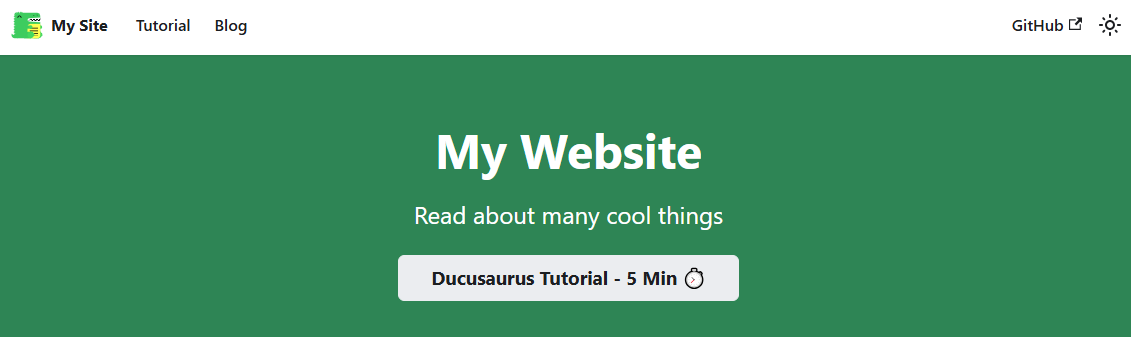
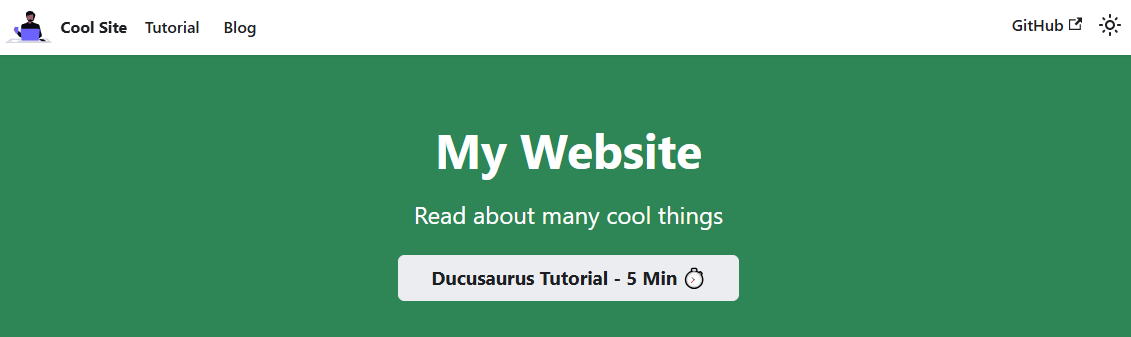
Finished the Site Configuration description

Changed region(s): [[0.0, 0.0297, 0.2476, 0.1484]]

diff --git a/src/css/custom.css b/src/css/custom.css
@@ -6,23 +6,22 @@
 
 /* You can override the default Infima variables here. */
 :root {
-  --ifm-color-primary: #2e8555;
-  --ifm-color-primary-dark: #29784c;
-  --ifm-color-primary-darker: #277148;
-  --ifm-color-primary-darkest: #205d3b;
-  --ifm-color-primary-light: #33925d;
-  --ifm-color-primary-lighter: #359962;
-  --ifm-color-primary-lightest: #3cad6e;
+  --ifm-color-primary: #4169e1;
+  --ifm-color-primary-dark: #2855dd;
+  --ifm-color-primary-darker: #224ed5;
+  --ifm-color-primary-darkest: #1c41af;
+  --ifm-color-primary-light: #5a7de5;
+  --ifm-color-primary-lighter: #6787e7;
+  --ifm-color-primary-lightest: #8ca4ed;
 }
 
 /* For readability concerns, you should choose a lighter palette in dark mode. */
 [data-theme='dark'] {
-  --ifm-color-primary: #25c2a0;
-  --ifm-color-primary-dark: #21af90;
-  --ifm-color-primary-darker: #1fa588;
-  --ifm-color-primary-darkest: #1a8870;
-  --ifm-color-primary-light: #29d5b0;
-  --ifm-color-primary-lighter: #32d8b4;
-  --ifm-color-primary-lightest: #4fddbf;
-  --docusaurus-highlighted-code-line-bg: rgba(0, 0, 0, 0.3);
+  --ifm-color-primary: #4d8699;
+  --ifm-color-primary-dark: #45798a;
+  --ifm-color-primary-darker: #417282;
+  --ifm-color-primary-darkest: #365e6b;
+  --ifm-color-primary-light: #5593a8;
+  --ifm-color-primary-lighter: #5c99ad;
+  --ifm-color-primary-lightest: #73a7b8;
 }

diff --git a/src/components/HomepageFeatures/index.js b/src/components/HomepageFeatures/index.js
@@ -8,26 +8,25 @@ const FeatureList = [
     Svg: require('@site/static/img/home-apis.svg').default,
     description: (
       <>
-        Step-by-Step Guides to Learn, Build, and Integrate – Explore Our API Tutorials
+        Learn step by step, master API documentation with clarity and precision, and craft detailed references.
       </>
     ),
   },
   {
-    title: 'Focus on What Matters',
-    Svg: require('@site/static/img/undraw_docusaurus_tree.svg').default,
+    title: 'AI Tutorials',
+    Svg: require('@site/static/img/home-ai.svg').default,
     description: (
       <>
-        afafafa
+        Unlock Artificial Intelligence, master innovation with ease, and stay ahead of the curve.
       </>
     ),
   },
   {
-    title: 'Powered by React',
-    Svg: require('@site/static/img/undraw_docusaurus_react.svg').default,
+    title: 'Content Creation & Tools',
+    Svg: require('@site/static/img/home-content-creation.svg').default,
     description: (
       <>
-        Extend or customize your website layout by reusing React. Docusaurus can
-        be extended while reusing the same header and footer.
+        Create with confidence, document with clarity, and master the tools that bring your content to life.
       </>
     ),
   },

diff --git a/docusaurus.config.js b/docusaurus.config.js
@@ -10,8 +10,8 @@ import {themes as prismThemes} from 'prism-react-renderer';
 
 /** @type {import('@docusaurus/types').Config} */
 const config = {
-  title: 'My Website',
-  tagline: 'Read about many cool things',
+  title: 'My Tech Blog',
+  tagline: 'Tutorials and Articles on AI, APIs, and Tools',
   favicon: 'img/favicon.ico',
 
   // Set the production url of your site here
@@ -76,9 +76,9 @@ const config = {
       // Replace with your project's social card
       image: 'img/docusaurus-social-card.jpg',
       navbar: {
-        title: 'My Site',
+        title: 'Home',
         logo: {
-          alt: 'My Site Logo',
+          alt: 'My TechBlog Logo',
           src: 'img/logo.svg',
         },
         items: [
@@ -90,7 +90,7 @@ const config = {
           },
           {to: '/blog', label: 'Blog', position: 'left'},
           {
-            href: 'https://github.com/facebook/docusaurus',
+            href: 'https://github.com/docsacademy/mytechblog',
             label: 'GitHub',
             position: 'right',
           },

diff --git a/docs/site-configuration.md b/docs/site-configuration.md
@@ -35,9 +35,29 @@ Before publishing your Docusaurus website, you must update its configuration to 
     ```
 6. Find the **url** property and replace 'https://example.com' with the actual domain where your site will be live. This ensures that all generated links and paths reflect your final hosting environment.
 
-7. Locate the **footer** property and customize the follter according to your preferences. For example, you can:
-   
+7. Look for the **navbar** section inside `themeConfig`.
+
+    ```js
+    themeConfig:
+    /** @type {import('@docusaurus/preset-classic').ThemeConfig} */
+    ({
+      // Replace with your project's social card
+      image: 'img/docusaurus-social-card.jpg',
+      navbar: {
+        title: 'My Site',
+        logo: {
+          alt: 'My Site Logo',
+          src: 'img/logo.svg',
+        },
+        ...
     ```
+
+    * Modify the `title` to match your website's name.
+    * Change the default logo by replacing **img/logo.svg** with your own logo file.
+
+8. Locate the **footer** property and customize the follter according to your preferences. For example, you can:
+   
+    ```js
     footer: {
         style: 'light',
         links: [
@@ -67,6 +87,16 @@ Before publishing your Docusaurus website, you must update its configuration to 
     * Replace the existing links with your own.
     * Delete any links that you don't want to display.
     * Disable the footer by setting it to footer: false or removing it entirely from the configuration file.
+
+9. Customize or remove the GitHub link in the navbar.
+
+    ```js
+    {
+        href: 'https://github.com/facebook/docusaurus',
+        label: 'GitHub',
+        position: 'right',
+    },
+    ```
 
 After updating the configuration, start the local server by running npm run start and preview your site. Ensure that the homepage reflects the changes you made.
 
@@ -134,3 +164,58 @@ Your homepage consists of two main parts:
     ```
 
     ![Two-column layout](/img/docs/misc/docusaurus-two-columns.png)
+
+## Customizing styles
+
+Docusaurus uses [Infima](https://infima.dev/) as its underlying CSS framework. You have multiple options to customize your website:
+
+* **Global CSS**
+Site-wide styling through custom CSS files
+
+* **CSS Modules**
+Component-scoped styles
+
+* **CSS-in-JS**
+Through libraries like styled-components (requires additional setup)
+
+* **Tailwind CSS**
+Utility-first styling (requires additional setup)
+
+In this tutorial, we'll focus on the first approach - site-wide styling using custom CSS files.
+
+1. Find your global CSS file at **src/css/custom.css**. This is where you'll customize colors and other global styles.
+
+2. Locate the CSS rule for :root and update the color variables as needed. You can use the tool available at [Docusaurus Infima Styling](https://docusaurus.io/docs/styling-layout#styling-your-site-with-infima) to define your color scheme. Simply specify the primary color, and the tool will automatically generate all other shades for you. For example:
+
+    ![Docusaurus Infima Styling](/img/docs/misc/docusaurus-infima-styling.png)
+
+    After generating the CSS styles, copy them and replace the corresponding variables in **src/css/custom.css**.
+
+    ```css
+    :root {
+    --ifm-color-primary: #4169e1; /* Your primary brand color */
+    --ifm-color-primary-dark: #3a5ecc;
+    --ifm-color-primary-darker: #3457bf;
+    --ifm-color-primary-darkest: #2a479d;
+    --ifm-color-primary-light: #5479e3;
+    --ifm-color-primary-lighter: #6889e6;
+    --ifm-color-primary-lightest: #7c99e9;
+    ```
+    
+If you want to update styles for both light and dark modes, you also need to replace the styles for the dark mode.
+
+    ```css
+    /* Dark mode adjustments */
+    [data-theme='dark'] {
+    --ifm-color-primary: #6889e6;
+    --ifm-color-primary-dark: #5479e3;
+    --ifm-color-primary-darker: #4169e1;
+    --ifm-color-primary-darkest: #3a5ecc;
+    --ifm-color-primary-light: #7c99e9;
+    --ifm-color-primary-lighter: #90a9ec;
+    --ifm-color-primary-lightest: #a4b9ef;
+    --ifm-background-color: #1e2125;
+    --docusaurus-highlighted-code-line-bg: rgba(0, 0, 0, 0.3);
+    }
+
+    ```
